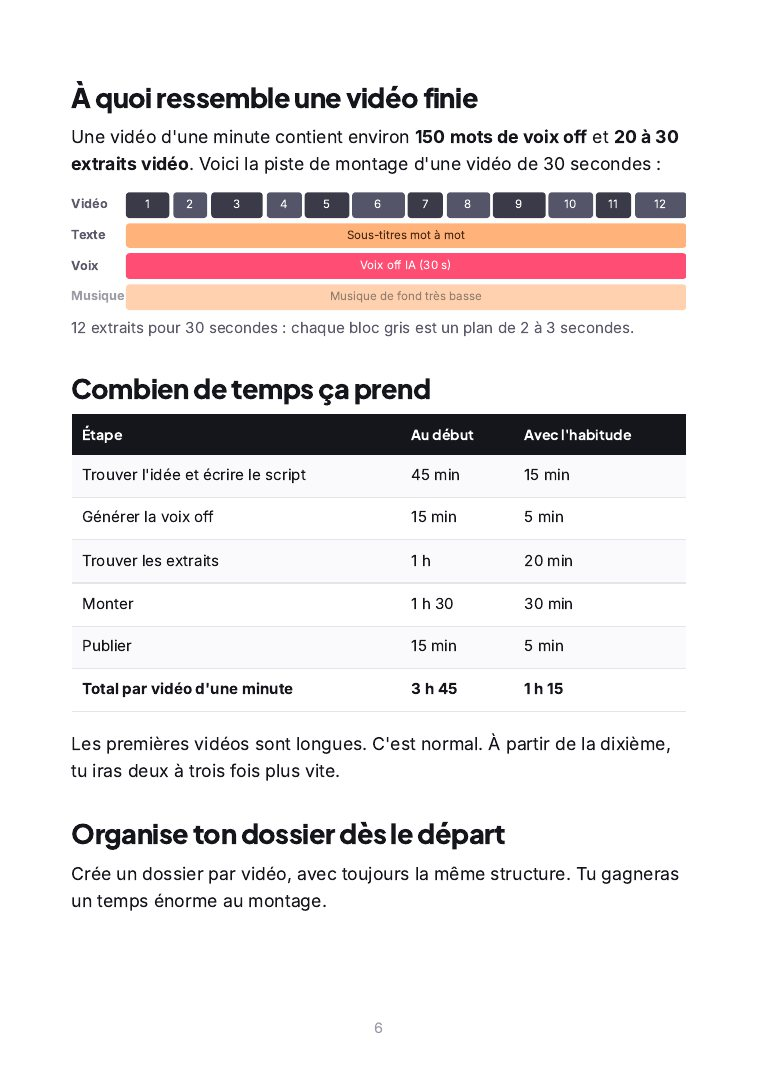
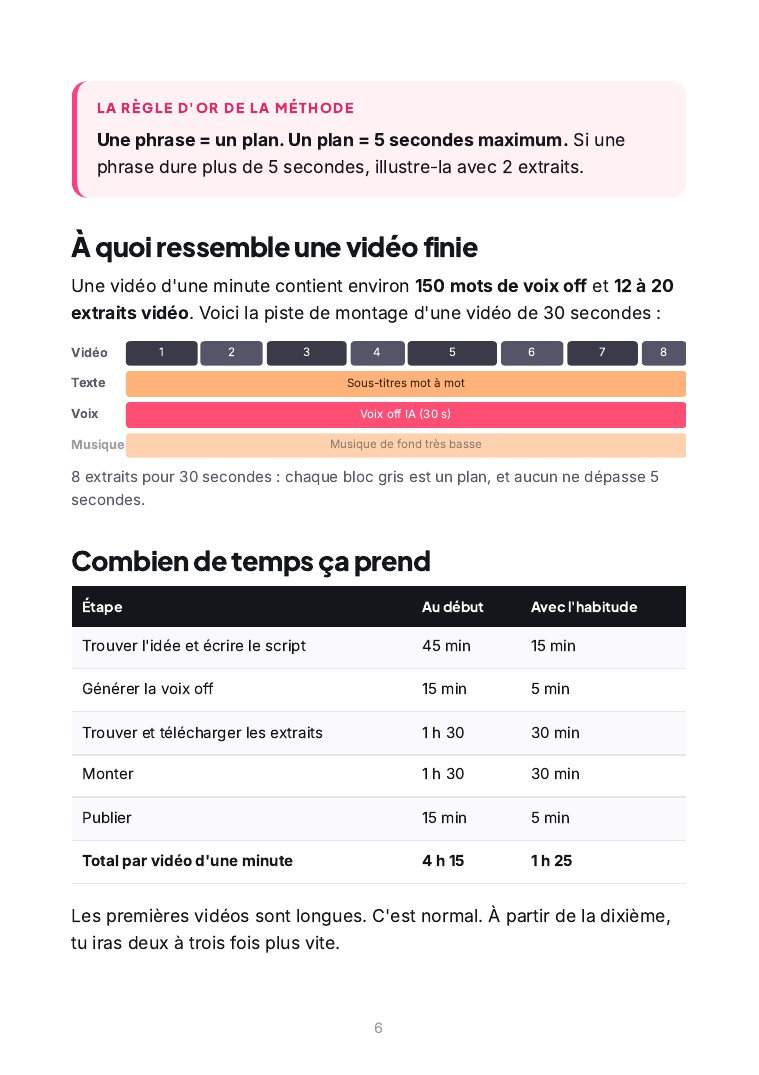
Aligne le site sur la vraie méthode : extraits YouTube/TikTok/films, plans de 5 s, 61 pages

Changed region(s): [[0.0909, 0.0614, 0.9091, 0.6447], [0.0909, 0.6753, 0.9091, 0.8902]]

diff --git a/index.html b/index.html
@@ -10,7 +10,7 @@
 <link rel="preconnect" href="https://fonts.gstatic.com" crossorigin>
 <link rel="stylesheet" href="https://fonts.googleapis.com/css2?family=Archivo:wdth,wght@62..125,400..900&display=swap">
 <style>
-/* Concept : la table de montage. Le héros fait tourner la méthode elle-même (un plan toutes les 2 à 3 s,
+/* Concept : la table de montage. Le héros fait tourner la méthode elle-même (un plan toutes les 5 s maximum,
    sous-titres mot à mot, timeline). Le reste de la page reste calme : fond gris-bleu, encre indigo,
    jaune surligneur pour les actions, bleu « plan » et rouge « coupe » réservés à la timeline. */
 :root {
@@ -116,7 +116,7 @@ p { margin: 0; }
 .steps .time { display: block; font-size: .86rem; font-weight: 650; color: var(--ink-2); margin-bottom: 10px; font-variant-numeric: tabular-nums; }
 .steps p { font-size: .98rem; color: var(--ink-2); }
 
-/* La règle des 3 secondes */
+/* La règle des 5 secondes */
 .rule { background: var(--paper); }
 .rule .wrap { display: grid; grid-template-columns: minmax(0, .9fr) minmax(0, 1.1fr); gap: clamp(32px, 6vw, 80px); align-items: start; }
 .rule h2 { margin-bottom: 22px; }
@@ -309,16 +309,16 @@ footer .brand svg { width: 24px; height: 24px; }
     <div class="wrap">
       <div>
         <h1>Des vidéos qui rapportent. Ton visage reste hors champ.</h1>
-        <p class="lede">Une voix off générée par IA, des extraits vidéo libres de droits, un nouveau plan toutes les 2 à 3 secondes. Le guide t'apprend cette méthode clic par clic, de l'idée à la vidéo publiée.</p>
+        <p class="lede">Une voix off générée par IA, des extraits de YouTube, TikTok, de films et de séries, un nouveau plan toutes les 5 secondes maximum. Le guide t'apprend cette méthode clic par clic, de l'idée à la vidéo publiée.</p>
         <div class="cta">
           <a class="btn" href="#offre">Acheter le guide pour <span data-price>49 €</span></a>
-          <p class="small muted">Paiement unique. PDF de 58 pages, disponible juste après le paiement.</p>
+          <p class="small muted">Paiement unique. PDF de 61 pages, disponible juste après le paiement.</p>
         </div>
         <p class="need">Il te faut <strong>un téléphone ou un ordinateur</strong>, <strong>CapCut</strong> (gratuit) et <strong>une heure par jour</strong>. Pas de caméra, pas de micro.</p>
       </div>
 
       <div class="rig">
-        <div class="phone" role="img" aria-label="Exemple de vidéo faite avec la méthode : un nouveau plan toutes les 2 à 3 secondes, avec la voix off écrite en sous-titres.">
+        <div class="phone" role="img" aria-label="Exemple de vidéo faite avec la méthode : un nouveau plan toutes les 5 secondes maximum, avec la voix off écrite en sous-titres.">
           <div class="screen" id="screen">
             <div class="scene" data-i="0"><svg viewBox="0 0 90 160" preserveAspectRatio="xMidYMid slice"><rect width="90" height="160" fill="#5468FF"/><circle cx="20" cy="22" r="7" fill="#FFD23F"/><circle cx="20" cy="22" r="4.4" fill="none" stroke="#C89A00" stroke-width="1"/><circle cx="66" cy="12" r="5.5" fill="#FFD23F"/><circle cx="74" cy="40" r="6.5" fill="#FFD23F"/><circle cx="74" cy="40" r="4" fill="none" stroke="#C89A00" stroke-width="1"/><circle cx="38" cy="44" r="5" fill="#FFD23F"/><rect x="14" y="58" width="62" height="40" rx="6" fill="#1A1D3A"/><path d="M14 66h62v10H48a5 5 0 0 1 0-10" fill="#2C3170"/><rect x="58" y="69" width="18" height="10" rx="3" fill="#8FA0FF"/><circle cx="64" cy="74" r="2.2" fill="#1A1D3A"/></svg></div>
             <div class="scene" data-i="1"><svg viewBox="0 0 90 160" preserveAspectRatio="xMidYMid slice"><rect width="90" height="160" fill="#FFD23F"/><path d="M36 22c-3 5 3 7 0 12M46 18c-3 5 3 7 0 12M56 22c-3 5 3 7 0 12" fill="none" stroke="#1A1D3A" stroke-width="2.4" stroke-linecap="round" opacity=".55"/><rect x="26" y="40" width="40" height="7" rx="3" fill="#1A1D3A"/><path d="M29 47h34l-4 52H33z" fill="#fff"/><path d="M31 62h30l-1.6 20H32.6z" fill="#F2542D"/><circle cx="46" cy="72" r="4" fill="#fff"/></svg></div>
@@ -330,7 +330,7 @@ footer .brand svg { width: 24px; height: 24px; }
         </div>
 
         <div class="tl" aria-hidden="true">
-          <div class="tl-head"><span>Timeline CapCut</span><span><strong id="tc">00:00</strong> / 00:13</span></div>
+          <div class="tl-head"><span>Timeline CapCut</span><span><strong id="tc">00:00</strong> / 00:19</span></div>
           <div class="tracks">
             <div class="track"><span>Vidéo</span><div class="lane v" id="lane-v"></div></div>
             <div class="track"><span>Voix IA</span><div class="lane a" id="lane-a"></div></div>
@@ -346,17 +346,17 @@ footer .brand svg { width: 24px; height: 24px; }
     <div class="wrap">
       <div class="steps-head">
         <h2>Cinq étapes, de l'idée à la vidéo publiée</h2>
-        <p class="lede">Avec un peu d'habitude, une vidéo d'une minute te prend environ 1 h 15. La barre montre où part ce temps.</p>
+        <p class="lede">Avec un peu d'habitude, une vidéo d'une minute te prend environ 1 h 25. La barre montre où part ce temps.</p>
       </div>
       <div class="bar" aria-hidden="true">
-        <i style="flex:15;background:var(--ink)"></i><i style="flex:5;background:#C89A00"></i><i style="flex:20;background:var(--clip)"></i><i style="flex:30;background:var(--clip-2)"></i><i style="flex:5;background:var(--cut)"></i>
+        <i style="flex:15;background:var(--ink)"></i><i style="flex:5;background:#C89A00"></i><i style="flex:30;background:var(--clip)"></i><i style="flex:30;background:var(--clip-2)"></i><i style="flex:5;background:var(--cut)"></i>
       </div>
-      <div class="bar-legend" aria-hidden="true"><span>0 min</span><span>40 min</span><span>1 h 15</span></div>
+      <div class="bar-legend" aria-hidden="true"><span>0 min</span><span>45 min</span><span>1 h 25</span></div>
       <ol class="steps">
-        <li style="--c:var(--ink)"><h3>L'idée et le script</h3><span class="time">15 min</span><p>Une accroche dans les 3 premières secondes, 150 mots pour une minute. À côté de chaque phrase, le mot-clé de l'extrait qui l'illustrera.</p></li>
-        <li style="--c:#C89A00"><h3>La voix off IA</h3><span class="time">5 min</span><p>Tu colles le texte dans ElevenLabs, ou dans les voix gratuites de CapCut ou Clipchamp, et tu télécharges l'audio.</p></li>
-        <li style="--c:var(--clip)"><h3>Les extraits vidéo</h3><span class="time">20 min</span><p>Un extrait par phrase, pris sur Pexels, Pixabay ou dans le domaine public. Rien qui puisse bloquer ta vidéo.</p></li>
-        <li style="--c:var(--clip-2)"><h3>Le montage</h3><span class="time">30 min</span><p>Dans CapCut : la voix d'abord, puis un plan à chaque phrase, sous-titres automatiques, musique basse.</p></li>
+        <li style="--c:var(--ink)"><h3>L'idée et le script</h3><span class="time">15 min</span><p>Une accroche dans les 3 premières secondes, 150 mots pour une minute. À côté de chaque phrase, la scène qui l'illustrera.</p></li>
+        <li style="--c:#C89A00"><h3>La voix off IA</h3><span class="time">5 min</span><p>Tu colles le texte dans un site de voix IA gratuit, tu choisis une voix française et tu télécharges l'audio.</p></li>
+        <li style="--c:var(--clip)"><h3>Les extraits vidéo</h3><span class="time">30 min</span><p>Une scène par phrase, trouvée sur YouTube, TikTok ou dans un film, téléchargée en 1080p.</p></li>
+        <li style="--c:var(--clip-2)"><h3>Le montage</h3><span class="time">30 min</span><p>Dans CapCut : la voix d'abord, puis un plan à chaque phrase, le son d'origine coupé, sous-titres automatiques, musique basse.</p></li>
         <li style="--c:var(--cut)"><h3>La publication</h3><span class="time">5 min</span><p>Le même fichier sur TikTok, YouTube Shorts et Reels, avec le mot-clé dans l'accroche et la description.</p></li>
       </ol>
     </div>
@@ -365,20 +365,20 @@ footer .brand svg { width: 24px; height: 24px; }
   <section class="section rule">
     <div class="wrap">
       <div>
-        <h2>Une phrase, un plan. Jamais plus de 3 secondes.</h2>
+        <h2>Une phrase, un plan. Jamais plus de 5 secondes.</h2>
         <p class="lede">C'est ce rythme qui retient le spectateur. Son œil reçoit sans arrêt une nouvelle image, et chaque phrase de la voix off est illustrée par ce qu'elle raconte.</p>
-        <p class="lede">Une vidéo d'une minute, c'est donc 20 à 30 extraits. Le guide te montre comment les trouver vite et les caler sur les mots dans CapCut.</p>
+        <p class="lede">Une vidéo d'une minute, c'est donc 12 à 20 extraits. Le guide te montre comment les trouver vite et les caler sur les mots dans CapCut.</p>
       </div>
       <table class="script">
         <caption>Extrait du chapitre 3 : le script d'une vidéo de 60 secondes, découpé plan par plan.</caption>
-        <thead><tr><th>Temps</th><th>Voix off</th><th>Extrait à chercher</th></tr></thead>
+        <thead><tr><th>Temps</th><th>Voix off</th><th>Scène à trouver</th></tr></thead>
         <tbody>
-          <tr><td>0:00</td><td>Ces cinq habitudes te font perdre de l'argent… sans que tu le remarques.</td><td>wallet empty</td></tr>
-          <tr><td>0:04</td><td>Et la troisième, tout le monde la fait.</td><td>crowd city walking</td></tr>
-          <tr><td>0:07</td><td>Un : le café acheté tous les matins.</td><td>coffee to go cup</td></tr>
-          <tr><td>0:10</td><td>Trois euros par jour, c'est plus de mille euros par an.</td><td>coins counting</td></tr>
-          <tr><td>0:15</td><td>Deux : les abonnements que tu as oubliés.</td><td>phone scrolling apps</td></tr>
-          <tr><td>0:23</td><td>Trois : faire les courses le ventre vide.</td><td>supermarket aisle</td></tr>
+          <tr><td>0:00</td><td>Ces cinq habitudes te font perdre de l'argent… sans que tu le remarques.</td><td>portefeuille vide</td></tr>
+          <tr><td>0:04</td><td>Et la troisième, tout le monde la fait.</td><td>foule dans la rue</td></tr>
+          <tr><td>0:07</td><td>Un : le café acheté tous les matins.</td><td>commande au comptoir d'un café</td></tr>
+          <tr><td>0:10</td><td>Trois euros par jour, c'est plus de mille euros par an.</td><td>pièces qu'on compte</td></tr>
+          <tr><td>0:15</td><td>Deux : les abonnements que tu as oubliés.</td><td>doigt qui fait défiler des applis</td></tr>
+          <tr><td>0:23</td><td>Trois : faire les courses le ventre vide.</td><td>rayon de supermarché</td></tr>
         </tbody>
       </table>
     </div>
@@ -390,9 +390,9 @@ footer .brand svg { width: 24px; height: 24px; }
         <div class="pages">
           <figure><img src="img/page-1.jpg" alt="Couverture du guide Hors Champ" width="758" height="1075" loading="lazy"><figcaption>La couverture</figcaption></figure>
           <figure><img src="img/page-6.jpg" alt="Page 6 du guide : la piste de montage d'une vidéo de 30 secondes et le temps passé par étape" width="758" height="1075" loading="lazy"><figcaption>Page 6 : à quoi ressemble une vidéo finie</figcaption></figure>
-          <figure><img src="img/page-26.jpg" alt="Page 26 du guide : le montage dans CapCut expliqué étape par étape" width="758" height="1075" loading="lazy"><figcaption>Page 26 : le montage dans CapCut</figcaption></figure>
+          <figure><img src="img/page-28.jpg" alt="Page 28 du guide : le montage dans CapCut expliqué étape par étape" width="758" height="1075" loading="lazy"><figcaption>Page 28 : le montage dans CapCut</figcaption></figure>
         </div>
-        <p class="pages-note">58 pages au format A5, faciles à lire sur téléphone. Chaque étape est écrite pour être suivie avec CapCut ouvert à côté.</p>
+        <p class="pages-note">61 pages au format A5, faciles à lire sur téléphone. Chaque étape est écrite pour être suivie avec CapCut ouvert à côté.</p>
       </div>
       <div>
         <h2>Ce que tu apprends, chapitre par chapitre</h2>
@@ -400,9 +400,9 @@ footer .brand svg { width: 24px; height: 24px; }
           <li><strong>La méthode en un coup d'œil</strong><span>Les étapes, le rythme des plans, l'organisation de tes fichiers.</span></li>
           <li><strong>Choisir sa niche et trouver ses idées</strong><span>Les niches faciles à illustrer, et 30 idées en 20 minutes.</span></li>
           <li><strong>Écrire le script de voix off</strong><span>L'accroche, la structure, le découpage en plans.</span></li>
-          <li><strong>Créer la voix off avec l'IA</strong><span>ElevenLabs, CapCut et Clipchamp, réglages compris.</span></li>
-          <li><strong>Trouver les extraits vidéo</strong><span>Les sources autorisées, et l'erreur qui fait bloquer les chaînes.</span></li>
-          <li><strong>Le montage plan par plan</strong><span>CapCut en 10 étapes, un plan toutes les 2 à 3 secondes.</span></li>
+          <li><strong>Créer la voix off avec l'IA</strong><span>Un site gratuit pas à pas, et ElevenLabs si tu veux aller plus loin.</span></li>
+          <li><strong>Récupérer les extraits vidéo</strong><span>YouTube, TikTok, films et séries : trouver la scène, la télécharger, connaître les risques.</span></li>
+          <li><strong>Le montage plan par plan</strong><span>CapCut en 10 étapes, un plan toutes les 5 secondes maximum.</span></li>
           <li><strong>Publier et faire grandir la chaîne</strong><span>Rythme de publication, titres, hashtags, statistiques.</span></li>
           <li><strong>Monétiser</strong><span>Les 6 sources de revenus et les règles d'originalité à respecter.</span></li>
           <li><strong>Ton plan de 30 jours</strong><span>Jour par jour, jusqu'à ta 30<sup>e</sup> vidéo.</span></li>
@@ -457,9 +457,9 @@ footer .brand svg { width: 24px; height: 24px; }
       <div>
         <h2>Le guide complet Hors Champ</h2>
         <ul class="incl">
-          <li><svg aria-hidden="true"><use href="#tick"/></svg><span>Le guide en PDF de 58 pages, lisible sur téléphone, ordinateur et liseuse</span></li>
+          <li><svg aria-hidden="true"><use href="#tick"/></svg><span>Le guide en PDF de 61 pages, lisible sur téléphone, ordinateur et liseuse</span></li>
           <li><svg aria-hidden="true"><use href="#tick"/></svg><span>La méthode voix off IA + extraits vidéo, clic par clic</span></li>
-          <li><svg aria-hidden="true"><use href="#tick"/></svg><span>Les sources d'extraits vidéo que tu as le droit d'utiliser</span></li>
+          <li><svg aria-hidden="true"><use href="#tick"/></svg><span>Où trouver tes extraits et comment éviter les réclamations</span></li>
           <li><svg aria-hidden="true"><use href="#tick"/></svg><span>5 modèles de scripts et 100 idées de vidéos</span></li>
           <li><svg aria-hidden="true"><use href="#tick"/></svg><span>Le plan d'action sur 30 jours</span></li>
           <li><svg aria-hidden="true"><use href="#tick"/></svg><span>Les mises à jour du guide, gratuites</span></li>
@@ -477,8 +477,8 @@ footer .brand svg { width: 24px; height: 24px; }
       <h2>Questions fréquentes</h2>
       <div>
         <details><summary>Faut-il du matériel coûteux ?</summary><p>Non. Pas de caméra ni de micro : un ordinateur ou un smartphone récent suffit. Le montage se fait dans CapCut (gratuit) et la voix avec un outil d'IA, gratuit pour commencer.</p></details>
-        <details><summary>Où je trouve les extraits vidéo ?</summary><p>Dans des banques de vidéos gratuites que tu as le droit d'utiliser, même pour gagner de l'argent (Pexels, Pixabay, archives du domaine public…). Le guide explique pourquoi les extraits de films, de séries ou d'autres créateurs font bloquer ou démonétiser les vidéos, et comment trouver vite l'extrait qui illustre chaque phrase.</p></details>
-        <details><summary>Je peux utiliser une voix générée par IA ?</summary><p>Oui, c'est le cœur de la méthode. Le guide explique quels outils utiliser, comment vérifier que leur licence autorise l'usage commercial, et comment garder des vidéos assez originales pour être monétisées.</p></details>
+        <details><summary>Où je trouve les extraits vidéo ?</summary><p>Sur YouTube, TikTok et dans des films et des séries. Le guide explique comment trouver vite la scène qui illustre chaque phrase, comment la télécharger en bonne qualité, et ce qui peut arriver avec des images qui ne t'appartiennent pas (réclamations, avertissements, monétisation refusée) pour limiter ces risques.</p></details>
+        <details><summary>Je peux utiliser une voix générée par IA ?</summary><p>Oui, c'est le cœur de la méthode. Le guide explique quels outils utiliser, comment vérifier que leurs conditions autorisent l'usage commercial, et comment garder des vidéos assez originales pour être monétisées.</p></details>
         <details><summary>Combien de temps avant de gagner de l'argent ?</summary><p>Cela dépend de ta régularité et de ta niche. L'affiliation et les produits numériques peuvent rapporter dès les premières semaines, alors que les programmes YouTube et TikTok demandent d'atteindre leurs seuils, ce qui prend en général plusieurs mois. Personne ne peut te garantir un montant.</p></details>
         <details><summary>Je débute complètement, c'est pour moi ?</summary><p>Oui. Le guide part de zéro et chaque étape est expliquée clic par clic : création des comptes, choix de la niche, premier script, première voix, premier montage.</p></details>
         <details><summary>Comment je reçois le guide ?</summary><p>Juste après le paiement, tu arrives sur une page avec le bouton pour ouvrir ou télécharger le PDF. Enregistre-le tout de suite et garde la page dans tes favoris : le lien reste valable.</p></details>
@@ -504,7 +504,7 @@ footer .brand svg { width: 24px; height: 24px; }
     <p class="done"><svg aria-hidden="true"><use href="#ok"/></svg>Paiement validé</p>
     <h1>Merci ! Voici ton guide.</h1>
     <div class="dl-card" id="dl-card" hidden>
-      <p class="what"><strong>Hors Champ, le guide PDF</strong><span>58 pages, 9 chapitres et 4 bonus</span></p>
+      <p class="what"><strong>Hors Champ, le guide PDF</strong><span>61 pages, 9 chapitres et 4 bonus</span></p>
       <p class="dl-inapp" id="dl-inapp" hidden><strong>Tu es dans l'appli TikTok, Instagram ou Snapchat ?</strong> Leur navigateur bloque les téléchargements. Touche <strong>•••</strong> en haut à droite, puis <strong>« Ouvrir dans le navigateur »</strong> (Safari ou Chrome), et appuie sur le bouton ci-dessous.</p>
       <a class="btn" id="dl-btn" href="#" rel="noopener">Télécharger le guide</a>
       <a class="dl-alt" id="dl-view" href="#" rel="noopener">Ou l'ouvrir dans Google Drive</a>
@@ -684,13 +684,13 @@ const PRICE = "49 €";
   }
   window.addEventListener("hashchange", updateBar);
 
-  // Le banc de montage : un plan toutes les 2 à 3 s, sous-titres mot à mot, tête de lecture
+  // Le banc de montage : un plan toutes les 5 s maximum, sous-titres mot à mot, tête de lecture
   const SCENES = [
-    { d: 2.6, w: ["Ces", "*5", "*habitudes", "te", "coûtent", "cher"] },
-    { d: 2.2, w: ["Un :", "le", "*café", "du", "matin"] },
-    { d: 2.8, w: ["*1 000 €", "par", "an"] },
-    { d: 2.4, w: ["Deux :", "les", "*abonnements", "oubliés"] },
-    { d: 3.0, w: ["Trois :", "les", "courses", "le", "*ventre", "*vide"] }
+    { d: 3.6, w: ["Ces", "*5", "*habitudes", "te", "coûtent", "cher"] },
+    { d: 3.0, w: ["Un :", "le", "*café", "du", "matin"] },
+    { d: 4.6, w: ["*1 000 €", "par", "an"] },
+    { d: 3.6, w: ["Deux :", "les", "*abonnements", "oubliés"] },
+    { d: 4.2, w: ["Trois :", "les", "courses", "le", "*ventre", "*vide"] }
   ];
   const TOTAL = SCENES.reduce((s, x) => s + x.d, 0);
   const starts = []; SCENES.reduce((s, x, i) => (starts[i] = s, s + x.d), 0);
